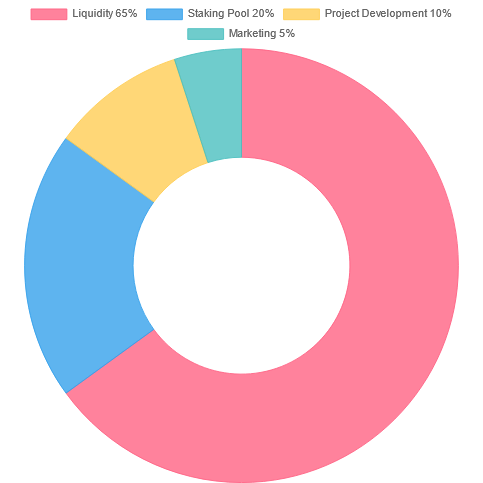
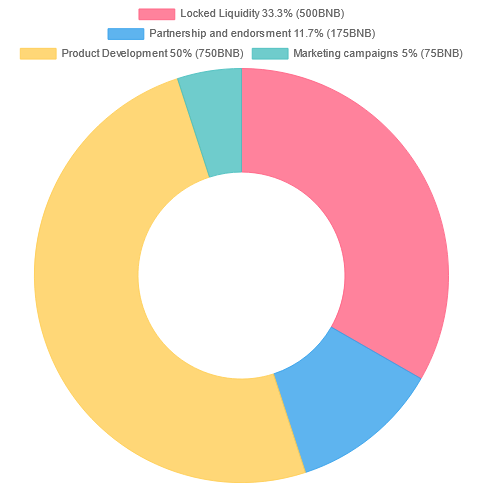
commit

diff --git a/pages/index.js b/pages/index.js
@@ -51,7 +51,7 @@ function index(props) {
             <div className={classes.brand}>
                 <h1 className={classes.title} style={{fontSize:"7.8vh"}}>Blue Orb Gaming</h1>
                 <h4 >
-                Project with crazy potential projections, reflections on every transaction, and insane gaming experiences, Blue Orb is taking over the GameFi arena of the BSC space. Hold tokens and get reflections, play games to win and get jobs on the core team – there is literally no excuse 
+                Project with crazy potential projections, reflections on every transaction, and insane gaming experiences. Blue Orb is taking over the GameFi arena of the BSC space. Hold tokens and get reflections, play games to win and get jobs on the core team – there is literally no excuse 
                 for not winning here
                 </h4>
                 
@@ -113,7 +113,7 @@ function index(props) {
               <img src="img/chart2.png" style={{width:"95%", height:"auto"}}/>
               </GridItem>
               <GridItem xs={12} sm={12} md={6}>
-              <h3 style={{fontWeight:"bold", textAlign:"center"}}>Blue Orb nomics</h3>
+              <h3 style={{fontWeight:"bold", textAlign:"center"}}>Tokenomics</h3>
               <img src="img/chart3.png" style={{width:"97%", height:"auto"}}/>
               </GridItem>
               <GridItem xs={12} sm={12} md={6}>

diff --git a/pages/whitePaper/ico.js b/pages/whitePaper/ico.js
@@ -79,7 +79,7 @@ export default function ico(props) {
                     at a 20% discount, meaning that upon our listing on pancakeswap, they'll automatically be on a 20% profit, this is an
                     incentive provided to early comminity members.
                  </p>
-                 <h3>The Public Sale</h3>
+                 <h3 style={{fontWeight:"bold",}}>The Public Sale</h3>
                  <p>
                      This ICO round is where the big stuff happens, it'll only be availaible to whitelisted wallets for the first  30 
                      minutes after the start, but if the hardcap isn't filled by then (which we highly doubt), then we'll
@@ -102,7 +102,7 @@ export default function ico(props) {
                     
 
                     <div style={{display:"flex" , justifyContent:"space-between", marginTop:"30px"}}>
-                      <a href="/whitePaper/hexanomis">Hexanomics</a>
+                      <a href="/whitePaper/blueorb-nomis">Tokenomics</a>
                       <a href="/whitePaper/liquidity-pool">Liquidity Pool</a>
 
                     </div>

diff --git a/components/Chart2.js b/components/Chart2.js
@@ -5,11 +5,11 @@ import { Doughnut } from 'react-chartjs-2';
 //ChartJS.register(ArcElement, Tooltip, Legend);
 
  const data = {
-  labels: ['Liquidity 65%', 'Staking Pool 20%', 'Project Development 10%', 'Marketing 5%', ],
+  labels: ['Locked Liquidity 33.3% (500BNB)', 'Partnership and endorsment 11.7% (175BNB)', 'Product Development 50% (750BNB)', 'Marketing campaigns 5% (75BNB)', ],
   datasets: [
     {
       label: '# of Votes',
-      data: [65, 20, 10, 5,],
+      data: [33.3, 11.7, 50, 5,],
       backgroundColor: [
         'rgba(255, 99, 132, 0.8)',
         'rgba(54, 162, 235, 0.8)',
